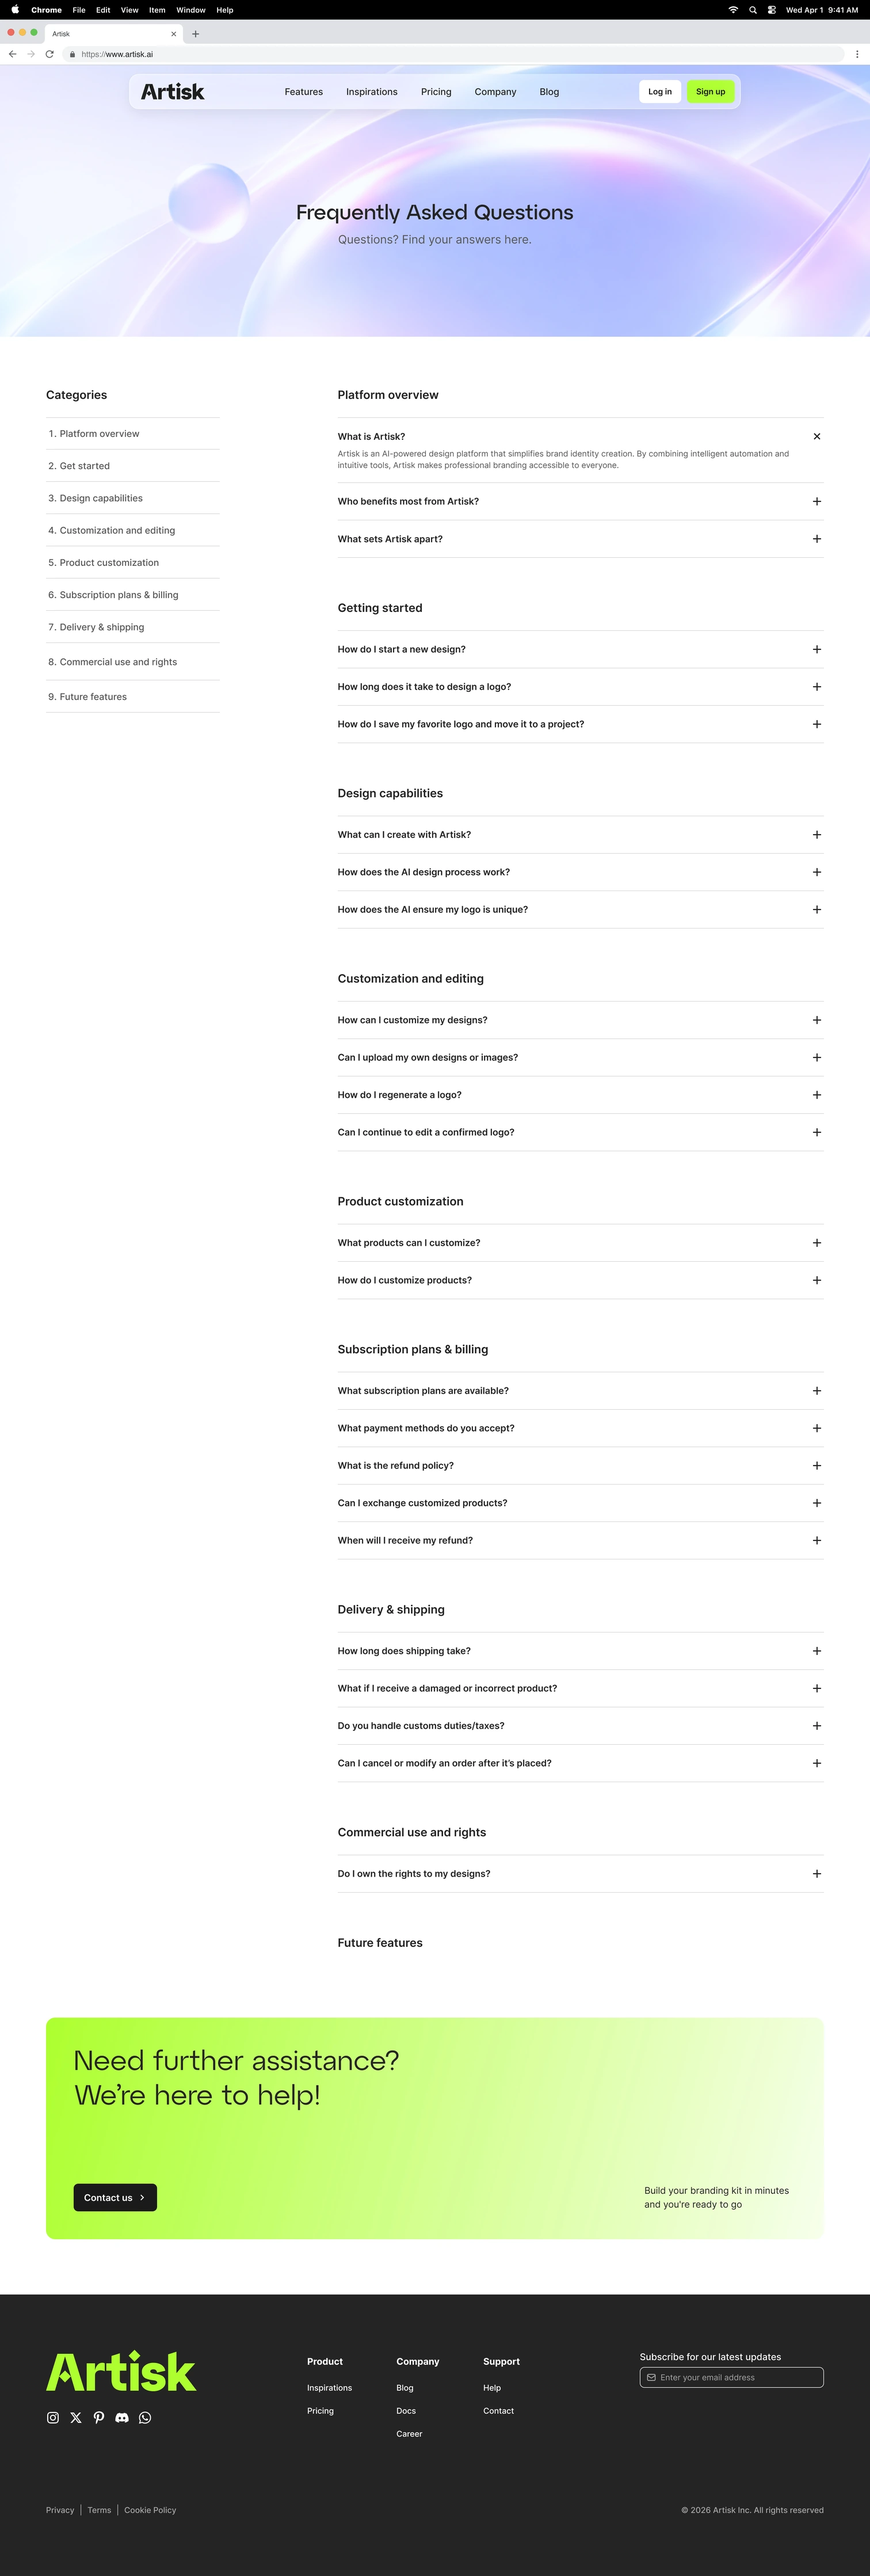
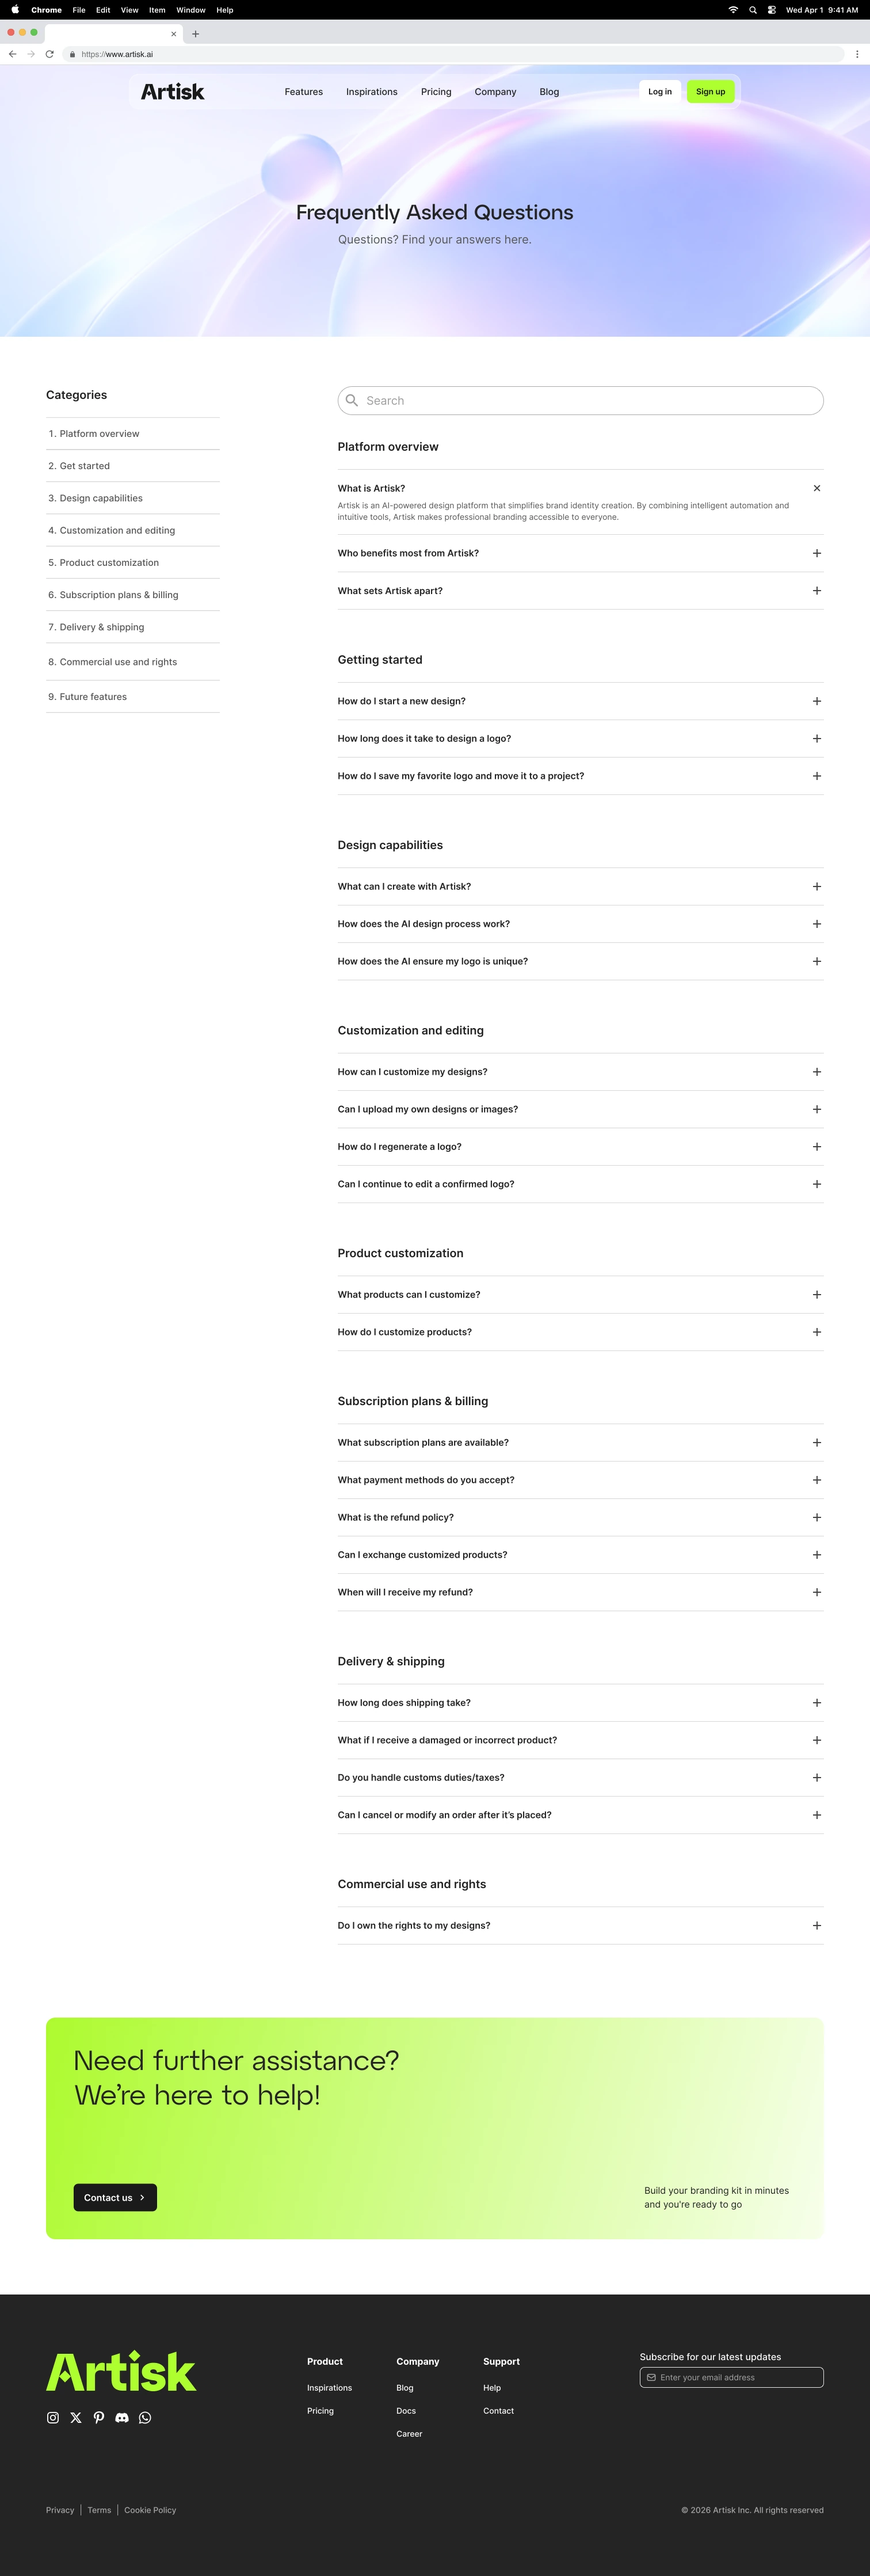
Clarify Artisk FAQ design progression and comparison

diff --git a/artisk.html b/artisk.html
@@ -262,6 +262,16 @@ section.block p strong{font-weight:600;color:var(--ink)}
    page hits its top or bottom. */
 .page-frame-scroll{flex:0 0 100%;width:100%;height:100%;overflow-y:auto;overscroll-behavior:none}
 .page-frame-scroll img{display:block;width:100%;height:auto}
+.faq-comparison{margin-top:32px;display:grid;grid-template-columns:repeat(2,minmax(0,1fr));gap:24px}
+.faq-version{min-width:0}
+.faq-version-head{display:flex;align-items:baseline;justify-content:space-between;gap:12px;margin-bottom:12px}
+.faq-version-head h3{font-size:clamp(18px,1.8vw,20px)}
+.faq-version-head span{font-size:12.5px;color:var(--body);white-space:nowrap}
+.faq-comparison-frame{width:100%;aspect-ratio:1384/750;overflow:hidden;border:1px solid var(--line);border-radius:var(--r-sm);background:var(--paper)}
+.faq-comparison-frame > img{display:block;width:100%;height:100%;object-fit:contain}
+.faq-comparison-frame .page-frame-scroll:focus-visible{outline:2px solid var(--ink);outline-offset:-3px}
+section.block .faq-version p{margin-top:12px;max-width:none}
+@media (max-width:700px){.faq-comparison{grid-template-columns:1fr;gap:32px}}
 
 /* ── MacBook frame around the page window. Drawn entirely in CSS — lid,
    bezel, notch, tapered base — so it stays sharp at any width and costs
@@ -380,8 +390,8 @@ section.block p strong{font-weight:600;color:var(--ink)}
     <div class="rail-toc">
      <ul id="tocList">
                 <li data-target="audit"><a href="#audit">Page audit</a></li>
-                <li data-target="imagery"><a href="#imagery">Image generation</a></li>
                 <li data-target="layout"><a href="#layout">Content &amp; layout</a></li>
+                <li data-target="imagery"><a href="#imagery">Image generation</a></li>
                 <li data-target="responsive"><a href="#responsive">Responsive</a></li>
                 <li data-target="final-design"><a href="#final-design">Final design</a></li>
                 <li data-target="reflection"><a href="#reflection">Reflection</a></li>
@@ -431,8 +441,8 @@ section.block p strong{font-weight:600;color:var(--ink)}
             </div>
             <div class="sec-body">
               <p>Artisk builds AI-powered design tools for brands: logo and brand-kit generation for founders and small teams who can't hire an agency. The component framework and site IA were already settled when I joined. The FAQ and About pages were not.</p>
-              <p>Both are task pages with different tasks. One is where a user solves a specific question without contacting support. The other is where a user reads to decide whether to trust the product. Each was failing its own job in a different way.</p>
-              <p>The FAQ held 25 questions in one ungrouped stack, so anyone arriving with a single question had to scan all of them. The About page ran as continuous narrative with no hierarchy, nothing pacing the read or separating one idea from the next.</p>
+              <p>The FAQ needed to help visitors find answers without contacting support. About needed to explain what Artisk does, who it serves, and the thinking behind it.</p>
+              <p>The FAQ already grouped questions by topic, but had no category navigation and its content could not be collapsed. Finding a relevant section depended on scrolling through the page. About had headings, but dense text and limited spacing made its sections difficult to distinguish.</p>
             </div>
           </div>
           <div class="carousel-toggle" id="processCarouselToggle" role="tablist" aria-label="Original page toggle">
@@ -450,6 +460,56 @@ section.block p strong{font-weight:600;color:var(--ink)}
             <button class="carousel-btn next" aria-label="Next image">
               <svg viewBox="0 0 24 24" fill="none" stroke="currentColor" stroke-width="2" stroke-linecap="round" stroke-linejoin="round"><path d="M9 18l6-6-6-6"/></svg>
             </button>
+          </div>
+        </div>
+      </section>
+
+      <section class="block reveal" id="layout">
+        <div class="sec-measure">
+          <div class="sec-grid">
+            <div class="sec-head">
+              <div class="tag">Content &amp; layout</div>
+              <h2>FAQ: find a question, then open its answer</h2>
+            </div>
+            <div class="sec-body">
+              <p>I kept the existing topic groups and focused on how visitors find a question and open its answer.</p>
+            </div>
+          </div>
+          <div class="faq-comparison">
+            <div class="faq-version">
+              <div class="faq-version-head">
+                <h3 class="highlight" id="faq-initial-title">Initial wireframe</h3>
+                <span aria-hidden="true">Scroll ↓</span>
+              </div>
+              <div class="faq-comparison-frame">
+                <div class="page-frame-scroll" tabindex="0" role="region" aria-labelledby="faq-initial-title"><img src="images/ArtiskWireframeFAQ.webp" width="1992" height="6430" loading="lazy" decoding="async" alt="Initial FAQ wireframe: search in the page header, a single column of grouped questions, and no category navigation"></div>
+              </div>
+              <p>This early wireframe places search in the page header, followed by a single column of questions grouped by topic. A category index had not yet been added.</p>
+            </div>
+            <div class="faq-version">
+              <div class="faq-version-head">
+                <h3 class="highlight">Final layout</h3>
+              </div>
+              <div class="faq-comparison-frame">
+                <img src="images/ArtiskFAQNavigation.webp" width="1384" height="750" loading="lazy" decoding="async" alt="Final FAQ detail: search above the questions, a numbered category index on the left, and one expanded answer alongside closed questions">
+              </div>
+              <p>In the final layout, I moved search directly above the questions and added a numbered category index beside them. Search supports finding a specific term; the index provides direct links for browsing by topic. Expandable answers let visitors open the detail they need and collapse it again.</p>
+            </div>
+          </div>
+
+          <div class="sec-grid">
+            <div class="sec-head">
+              <h2>About: five named sections</h2>
+            </div>
+            <div class="sec-body">
+              <p>Same information, rebuilt around a reading rhythm. The page breaks into five named sections: Our story, Mission and Vision, What we stand for, Who we serve, and an FAQ block to close. Two-column rows alternate image and text so the eye has a reason to keep moving, and hierarchy comes from position and white space rather than type size.</p>
+              <p>Two structural passes, shown side by side below.</p>
+            </div>
+          </div>
+          <div class="page-frame">
+            <div class="page-frame-track">
+              <div class="page-frame-scroll"><img src="images/ArtiskWireframeAbout.webp" width="2200" height="4037" loading="lazy" decoding="async" alt="Two About page wireframe variants side by side"></div>
+            </div>
           </div>
         </div>
       </section>
@@ -482,41 +542,6 @@ section.block p strong{font-weight:600;color:var(--ink)}
             </div>
           </div>
           <div class="ph ph-inline" style="aspect-ratio:2818/980;background:none"><img src="images/ArtiskBannerFinal.webp" width="2818" height="980" loading="lazy" decoding="async" alt="The two selected banners: green for About, lavender for FAQ"></div>
-        </div>
-      </section>
-
-      <section class="block reveal" id="layout">
-        <div class="sec-measure">
-          <div class="sec-grid">
-            <div class="sec-head">
-              <div class="tag">Content &amp; layout</div>
-              <h2>FAQ: 25 questions into 8 categories</h2>
-            </div>
-            <div class="sec-body">
-              <p>Grouped by topic, the first screen shows category headings instead of twenty-five separate questions. Every answer stays collapsed until it is asked for.</p>
-              <p>Wireframed before any visual was applied, because the grouping had to hold on its own. The numbered rail that mirrors the categories came later, at the visual stage.</p>
-            </div>
-          </div>
-          <div class="page-frame">
-            <div class="page-frame-track">
-              <div class="page-frame-scroll"><img src="images/ArtiskWireframeFAQ.webp" width="1992" height="6430" loading="lazy" decoding="async" alt="FAQ wireframe showing questions grouped into categories"></div>
-            </div>
-          </div>
-
-          <div class="sec-grid">
-            <div class="sec-head">
-              <h2>About: five named sections</h2>
-            </div>
-            <div class="sec-body">
-              <p>Same information, rebuilt around a reading rhythm. The page breaks into five named sections: Our story, Mission and Vision, What we stand for, Who we serve, and an FAQ block to close. Two-column rows alternate image and text so the eye has a reason to keep moving, and hierarchy comes from position and white space rather than type size.</p>
-              <p>Two structural passes, shown side by side below.</p>
-            </div>
-          </div>
-          <div class="page-frame">
-            <div class="page-frame-track">
-              <div class="page-frame-scroll"><img src="images/ArtiskWireframeAbout.webp" width="2200" height="4037" loading="lazy" decoding="async" alt="Two About page wireframe variants side by side"></div>
-            </div>
-          </div>
         </div>
       </section>
 
@@ -558,7 +583,7 @@ section.block p strong{font-weight:600;color:var(--ink)}
               <div class="laptop-notch" aria-hidden="true"></div>
               <div class="page-frame" id="finalDesignFrame">
                 <div class="page-frame-track" id="finalDesignTrack">
-                  <div class="page-frame-scroll" data-index="0"><img src="images/ArtiskFinalFAQ.webp" width="1512" height="4475" loading="lazy" decoding="async" alt="Final design — Artisk FAQ page, full length"></div>
+                  <div class="page-frame-scroll" data-index="0"><img src="images/ArtiskFinalFAQ.webp?v=2" width="1512" height="4475" loading="lazy" decoding="async" alt="Final Artisk FAQ design with search, category navigation and expandable answers, full length"></div>
                   <div class="page-frame-scroll" data-index="1"><img src="images/ArtiskFinalAbout.webp" width="1512" height="4509" loading="lazy" decoding="async" alt="Final design — Artisk About page, full length"></div>
                 </div>
               </div>
